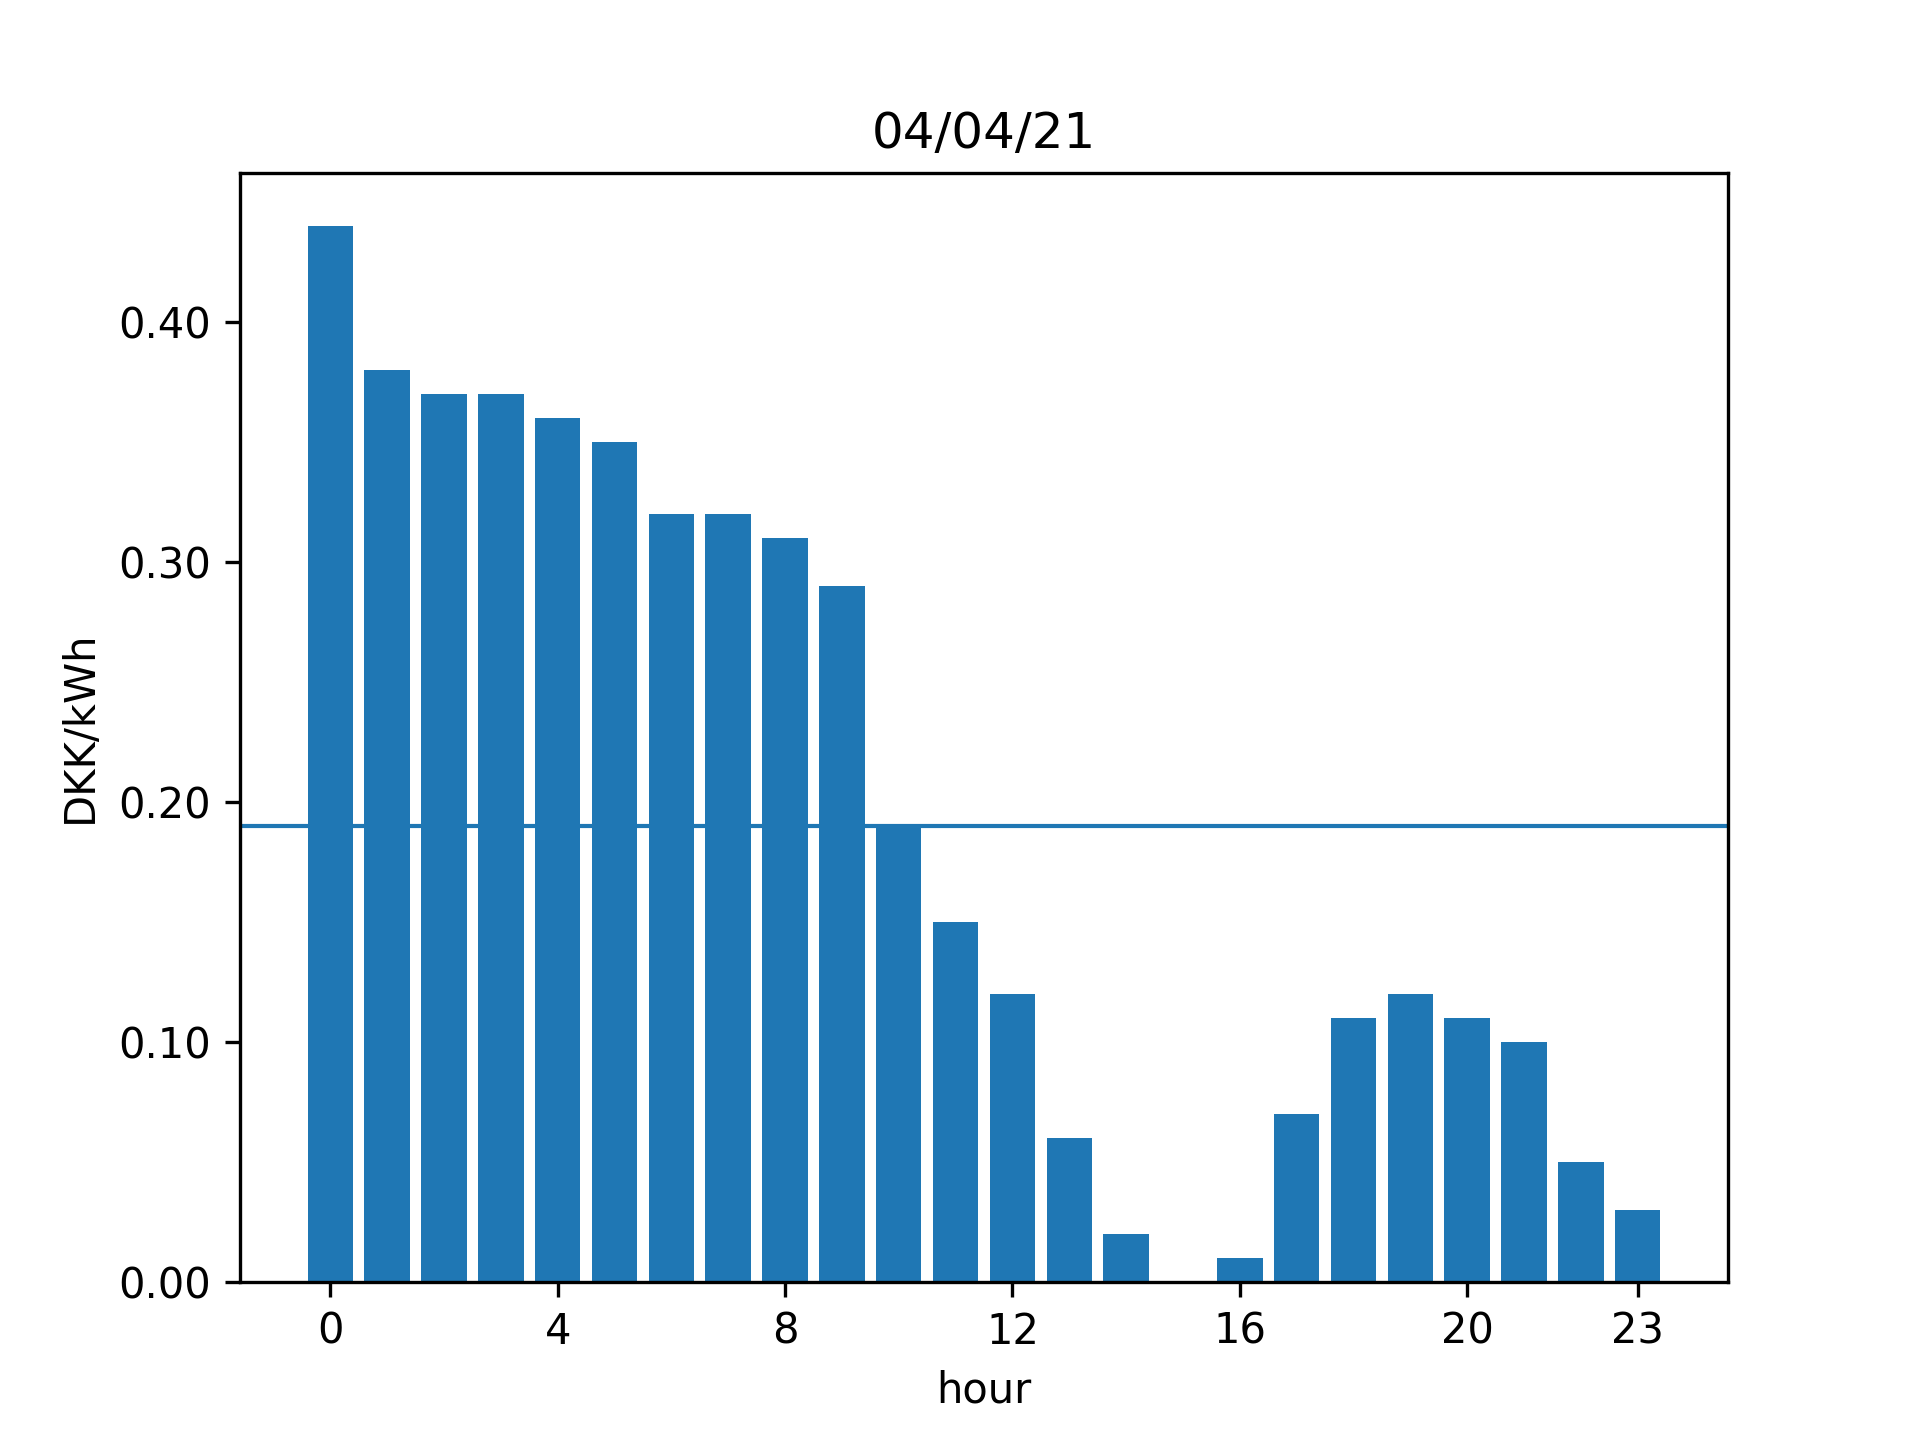
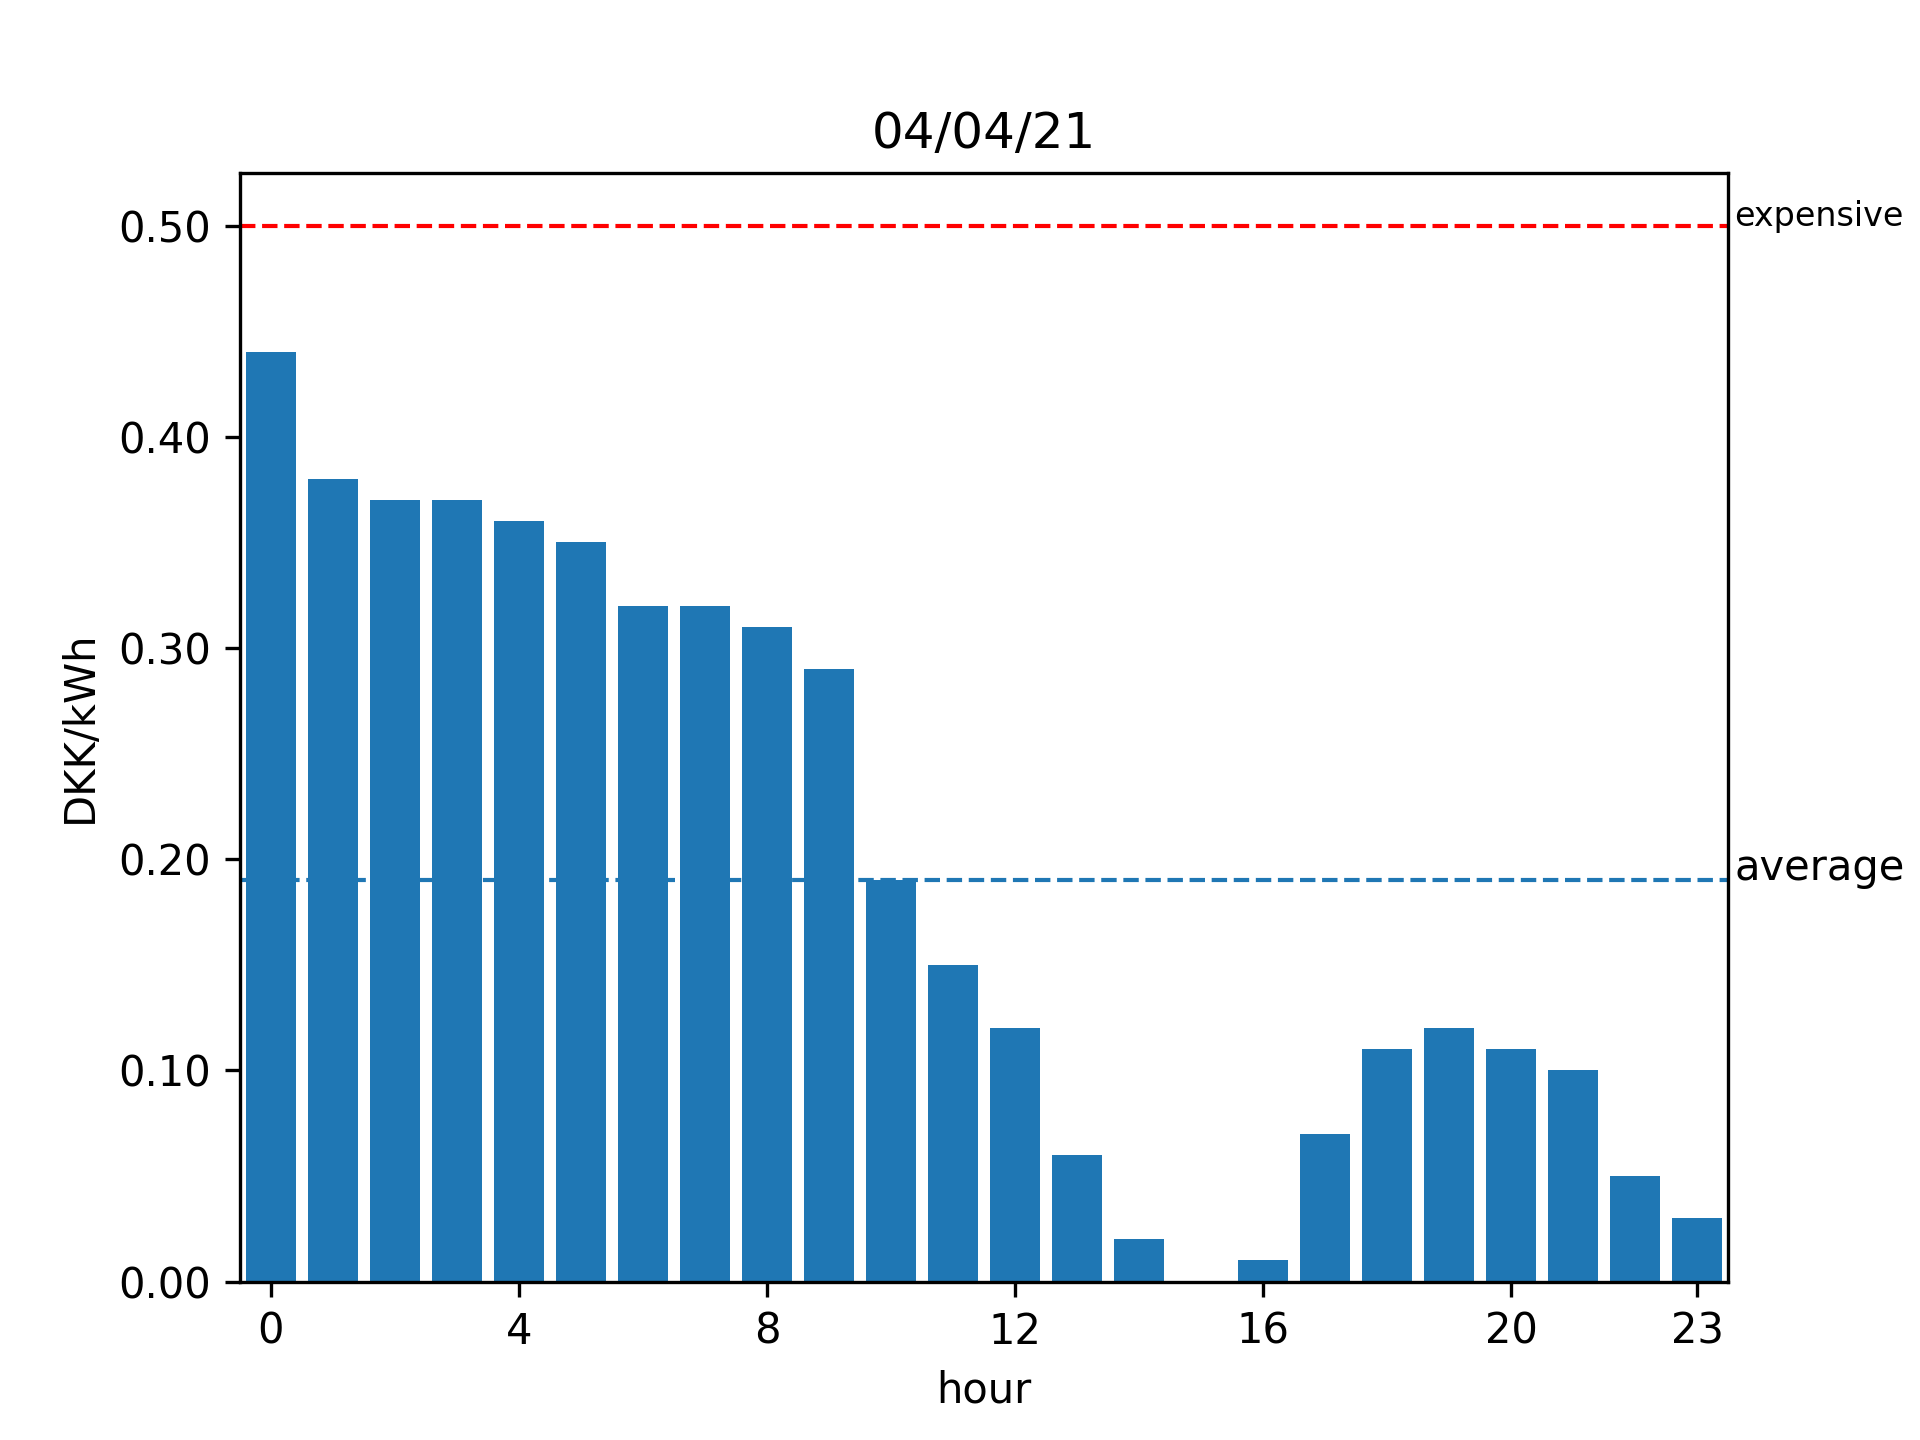
Add more info to plot
Add average label
Add expensive line and add label
Tighten the x axis

diff --git a/main.py b/main.py
@@ -7,6 +7,10 @@ import matplotlib.pyplot as plt
 from matplotlib.ticker import StrMethodFormatter
 import sys
 
+# define when power is considered expensive
+# to always have the same reference in the chart
+expensive = 0.5
+
 # convert to dkk/kwh, add danish VAT of 25%, and round to 2 decimals. Price is in dkk/mWh
 def normalize(price):
     return round(price*1.25/1000, 2)
@@ -53,8 +57,18 @@ plt.title(formattedDate)
 # set ticks
 plt.xticks([0,4,8,12,16,20,23])
 # add the average as a line
-plt.axhline(y=average, linewidth=1)
+plt.axhline(y=average, linewidth=1, linestyle='--')
+# add the expensive point of electricity as a line
+plt.axhline(y=expensive, linewidth=1, linestyle='--', color='r')
 # force two decimals on y axis
 plt.gca().yaxis.set_major_formatter(StrMethodFormatter('{x:,.2f}'))
+# tighten x limits around the hours
+plt.xlim(xmin=-0.5,xmax=23.5)
+# get borders
+x0,x1 = plt.gca().get_xlim()
+# add average text to average
+plt.text(x1+0.1, average, 'average')
+# add expensive text to expensive
+plt.text(x1+0.1, expensive, 'expensive').set_fontsize(8)
 # save the plot as file
-plt.savefig('daily_prices/' + fileFormattedDate + '.png')
+plt.savefig('daily_prices/' + fileFormattedDate + '.png', dpi=300)
